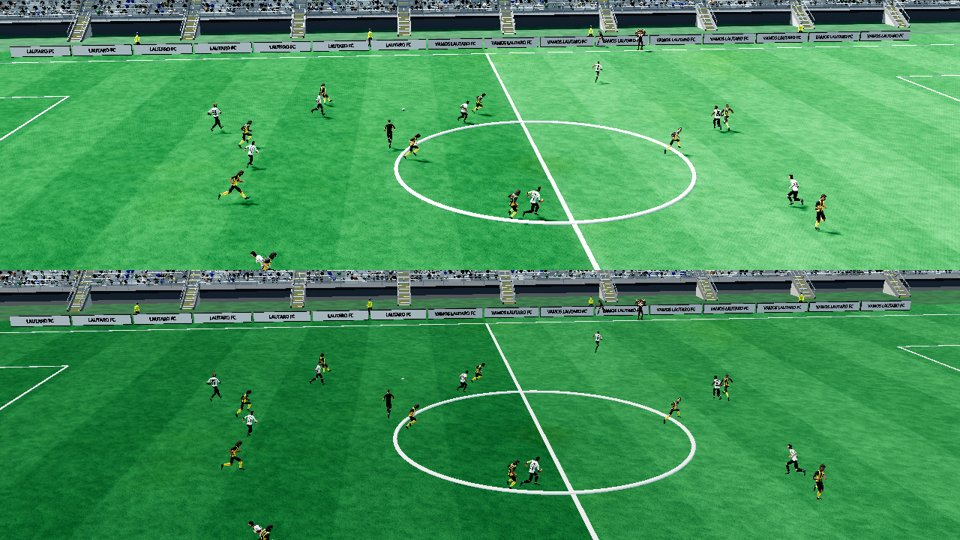
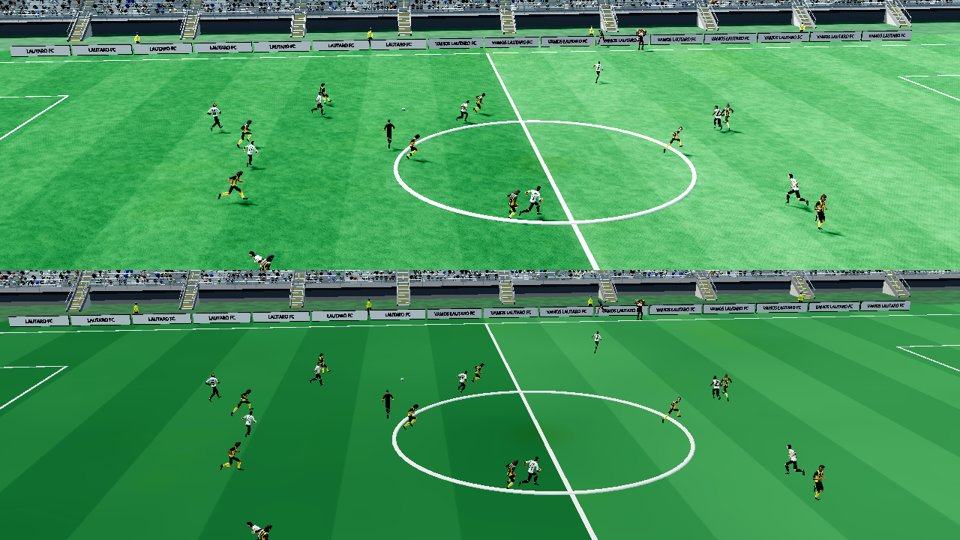
Informe: Modo rendimiento con E4 (-26..-27%) y capturas nuevas

diff --git a/docs/04_auditorias/rendimiento_movil_2026-11-10.md b/docs/04_auditorias/rendimiento_movil_2026-11-10.md
@@ -262,3 +262,12 @@ CHI 413 → 390 ms (**−5 %**), ESP 370 → 312 ms (**−15 %**), ENG 378 → 3
 | ESP | 45 | **1** | 408 → 407 |
 | ENG | 45 | **1** | 420 → 419 |
 Es decir, el menú deja de dibujar ~15 fotogramas por segundo de ~400 llamadas cada uno cuando no pasa nada (la GPU del móvil, al 100 % en el menú, queda casi libre). Coste: los fondos animados y las motas quedan quietos. Probado en `p6_resolucion3d`.
+
+### Modo rendimiento + E4 (césped barato) (10-11, sesión 5; orden del líder)
+`cesped_barato.gdshader`: el mismo campo (dibujo del club, franjas con brillo según el ángulo, manchas, desgaste: `cesped_comun.gdshaderinc`) SIN la brizna fina, los mechones ni el relieve (~10 llamadas a ruido por píxel y 4 `fbm` más para las normales). Va DENTRO del «Modo rendimiento» (`ModoRendimiento.cesped_barato`; apagado por defecto; de MEDIA hacia abajo). Medido, MEDIA 1280×720, sin → con el modo completo (glow + sombra solar + césped barato):
+| Club | Fotograma | Antes de E4 (solo glow + sombra) |
+|---|---|---|
+| CHI | 432 → 315 ms (**−27 %**) | −21 % |
+| ESP | 366 → 266 ms (**−27 %**) | −24 % |
+| ENG | 398 → 293 ms (**−26 %**) | −28 % |
+E4 añade poco medible (entre −2 y +6 puntos, dentro del ruido de ±4 %); el grueso sigue siendo la sombra solar y el glow. Capturas nuevas con/sin (arriba sin el modo, abajo con él): `docs/04_auditorias/capturas_modo_rendimiento/cmp_{CHI,ESP,ENG}.jpg`: sin sombras de los jugadores, sin resplandor y con el césped liso (franjas sin mechones); es un cambio de aspecto claro, por eso el modo sigue apagado por defecto.
